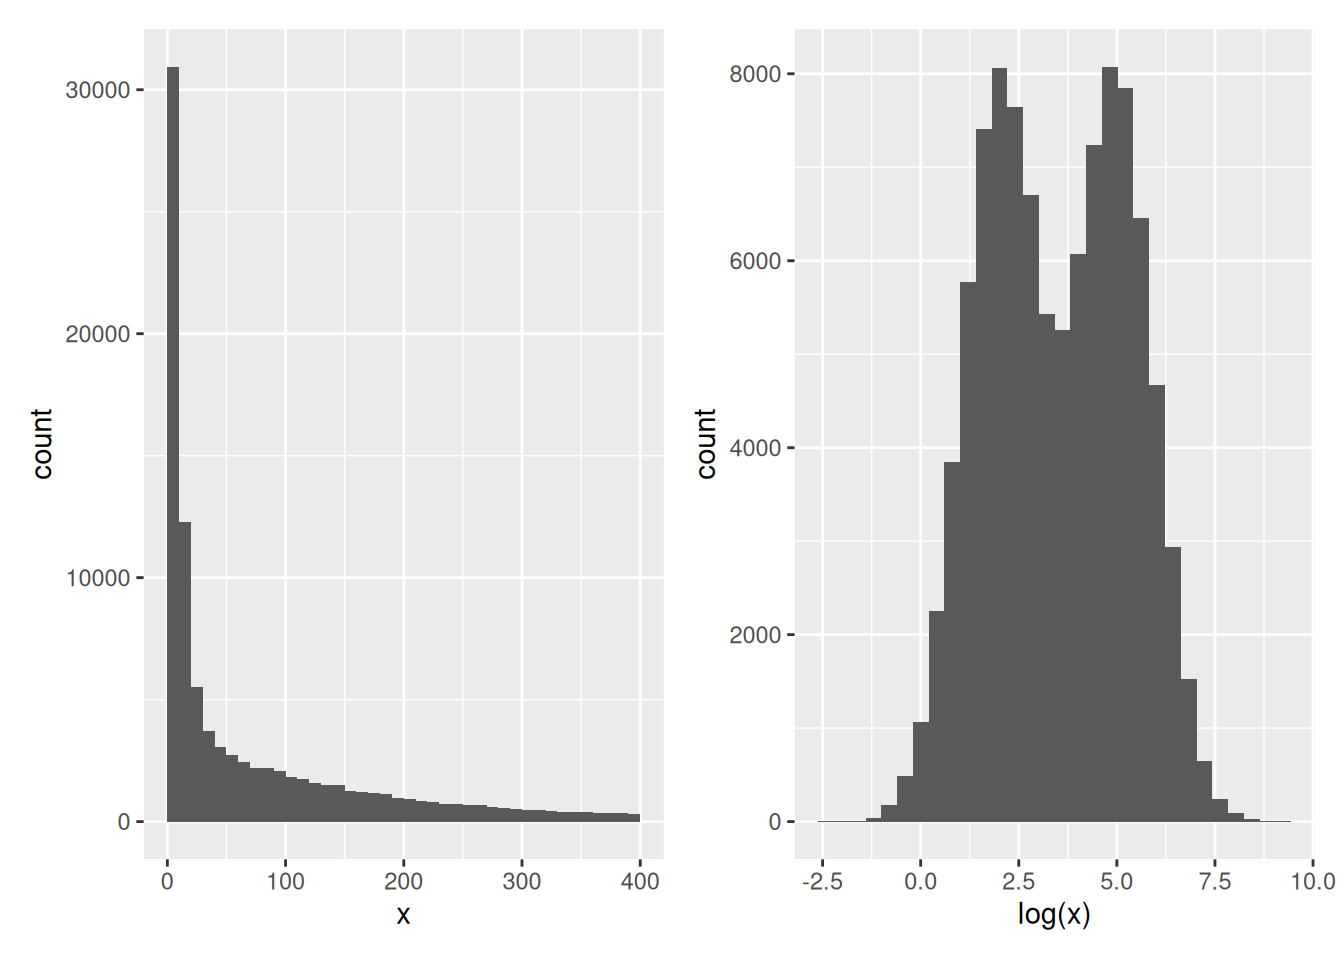
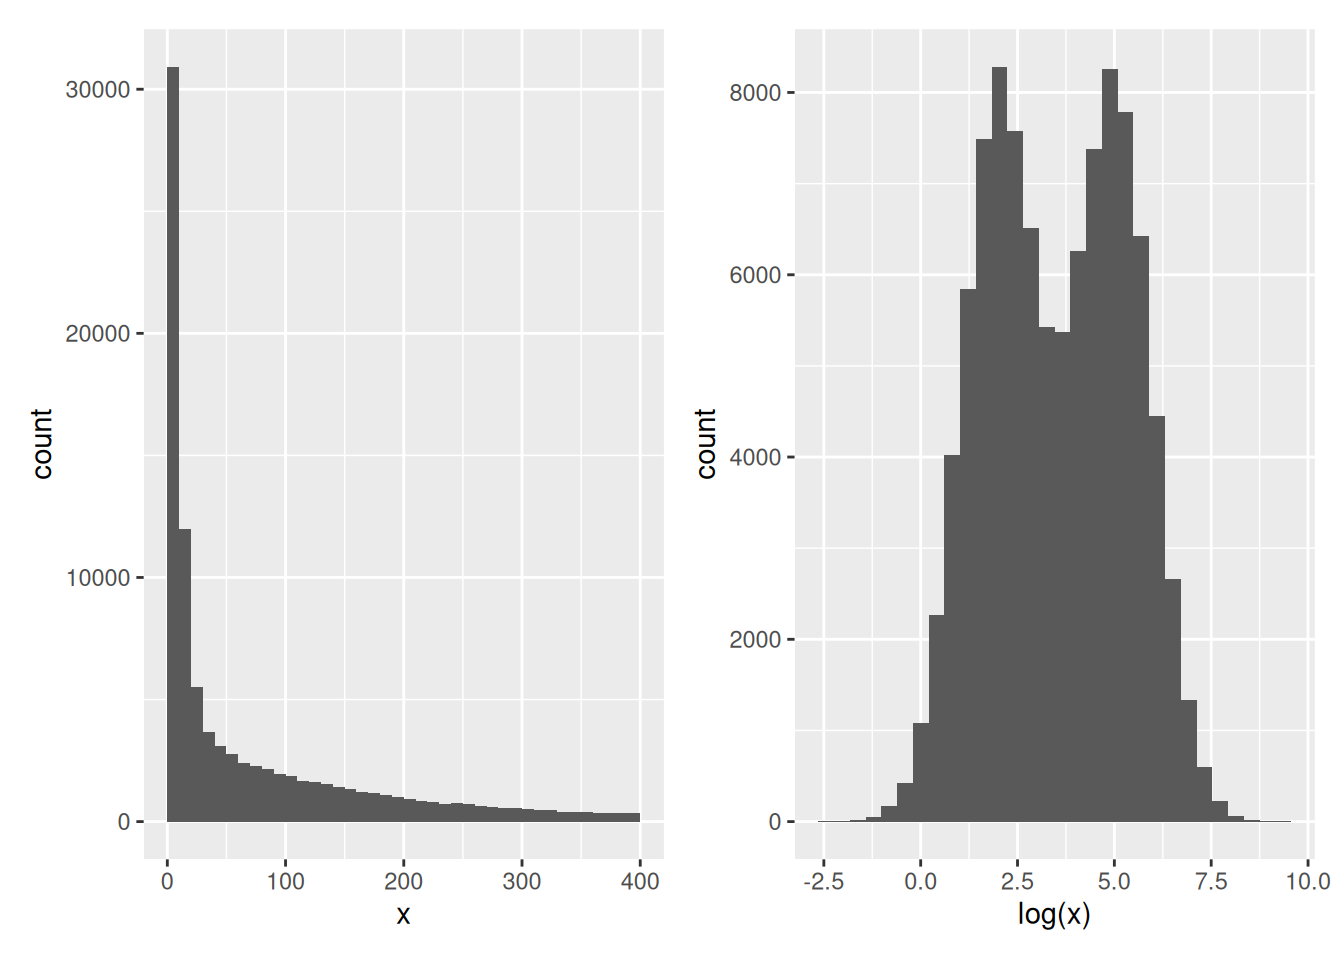
rebuild book

diff --git a/docs/sec-testing.html b/docs/sec-testing.html
@@ -13,7 +13,7 @@
 
 <meta name="author" content="Laurent Gatto" />
 
-<meta name="date" content="2023-10-16" />
+<meta name="date" content="2023-10-23" />
 
 <script type="text/x-mathjax-config">
 MathJax.Hub.Config({
@@ -775,16 +775,16 @@ section 6.5, provides additional details about the t-test.</p>
 through parameters of the <code>t.test</code> function. What we did above is
 called a two-sided two-sample unpaired test with unequal
 variance. <strong>Two-sided</strong> refers to the fact that we were open to reject
-the null hypothesis if the weight of the treated plants was either
-larger or smaller than that of the untreated ones.</p>
+the null hypothesis if the expression in the first group was either
+larger or smaller than that in the second one.</p>
 <p><strong>Two-sample</strong> indicates that we compared the means of two groups to
 each other; another option is to compare the mean of one group against
 a given, fixed number.</p>
 <p><strong>Unpaired</strong> means that there was no direct 1:1 mapping between the
 measurements in the two groups. If, on the other hand, the data had
-been measured on the same plants before and after treatment, then a
+been measured on the same patients before and after treatment, then a
 paired test would be more appropriate, as it looks at the change of
-weight within each plant, rather than their absolute weights.</p>
+expression within each patient, rather than their absolute expression.</p>
 <p><strong>Equal variance</strong> refers to the way the statistic is calculated. That
 expression is most appropriate if the variances within each group are
 about the same. If they are very different, an alternative form,
@@ -1145,7 +1145,7 @@ conclusion now?</li>
 <a href="sec-dimred.html"><button class="btn btn-default">Next</button></a>
 </p>
 <p class="build-date">Page built: 
-2023-10-16
+2023-10-23
  using 
 R version 4.3.1 Patched (2023-07-10 r84676)
 </p>

diff --git a/docs/sec-vis.html b/docs/sec-vis.html
@@ -13,7 +13,7 @@
 
 <meta name="author" content="Laurent Gatto" />
 
-<meta name="date" content="2023-10-16" />
+<meta name="date" content="2023-10-23" />
 
 <script type="text/x-mathjax-config">
 MathJax.Hub.Config({
@@ -949,7 +949,7 @@ of the data.</p>
 <span id="cb38-9"><a href="sec-vis.html#cb38-9" tabindex="-1"></a>p2 <span class="ot">&lt;-</span>  <span class="fu">ggplot</span>(sim, <span class="fu">aes</span>(<span class="fu">log</span>(x))) <span class="sc">+</span></span>
 <span id="cb38-10"><a href="sec-vis.html#cb38-10" tabindex="-1"></a>    <span class="fu">geom_histogram</span>(<span class="at">bins =</span> <span class="dv">30</span>)</span>
 <span id="cb38-11"><a href="sec-vis.html#cb38-11" tabindex="-1"></a>p1 <span class="sc">+</span> p2</span></code></pre></div>
-<pre><code>## Warning: Removed 7968 rows containing non-finite values (`stat_bin()`).</code></pre>
+<pre><code>## Warning: Removed 8163 rows containing non-finite values (`stat_bin()`).</code></pre>
 <div class="figure">
 <span style="display:block;" id="fig:sim"></span>
 <p class="caption marginnote shownote">
@@ -1205,7 +1205,7 @@ Analysis. Springer-Verlag New York.<a href="sec-vis.html#fnref3" class="footnote
 <a href="sec-obj.html"><button class="btn btn-default">Next</button></a>
 </p>
 <p class="build-date">Page built: 
-2023-10-16
+2023-10-23
  using 
 R version 4.3.1 Patched (2023-07-10 r84676)
 </p>

diff --git a/docs/sec-obj.html b/docs/sec-obj.html
@@ -13,7 +13,7 @@
 
 <meta name="author" content="Laurent Gatto" />
 
-<meta name="date" content="2023-10-16" />
+<meta name="date" content="2023-10-23" />
 
 <script type="text/x-mathjax-config">
 MathJax.Hub.Config({
@@ -1042,7 +1042,7 @@ missing.<a href="sec-obj.html#fnref6" class="footnote-back">↩</a></p></li>
 <a href="sec-biostrings.html"><button class="btn btn-default">Next</button></a>
 </p>
 <p class="build-date">Page built: 
-2023-10-16
+2023-10-23
  using 
 R version 4.3.1 Patched (2023-07-10 r84676)
 </p>

diff --git a/docs/index.html b/docs/index.html
@@ -13,7 +13,7 @@
 
 <meta name="author" content="Laurent Gatto" />
 
-<meta name="date" content="2023-10-16" />
+<meta name="date" content="2023-10-23" />
 
 <script type="text/x-mathjax-config">
 MathJax.Hub.Config({
@@ -366,7 +366,7 @@ style</a> <span class="citation">(<a href="#ref-R-msmbstyle"><strong>R-msmbstyle
 <a href="sec-refresher.html"><button class="btn btn-default">Next</button></a>
 </p>
 <p class="build-date">Page built: 
-2023-10-16
+2023-10-23
  using 
 R version 4.3.1 Patched (2023-07-10 r84676)
 </p>

diff --git a/docs/sec-sl.html b/docs/sec-sl.html
@@ -13,7 +13,7 @@
 
 <meta name="author" content="Laurent Gatto" />
 
-<meta name="date" content="2023-10-16" />
+<meta name="date" content="2023-10-23" />
 
 <script type="text/x-mathjax-config">
 MathJax.Hub.Config({
@@ -1061,7 +1061,7 @@ patients, for example.<a href="sec-sl.html#fnref14" class="footnote-back">↩
 <a href="sec-biovis.html"><button class="btn btn-default">Next</button></a>
 </p>
 <p class="build-date">Page built: 
-2023-10-16
+2023-10-23
  using 
 R version 4.3.1 Patched (2023-07-10 r84676)
 </p>

diff --git a/docs/sec-norm.html b/docs/sec-norm.html
@@ -13,7 +13,7 @@
 
 <meta name="author" content="Laurent Gatto" />
 
-<meta name="date" content="2023-10-16" />
+<meta name="date" content="2023-10-23" />
 
 <script type="text/x-mathjax-config">
 MathJax.Hub.Config({
@@ -769,7 +769,7 @@ variability of such experimental data.<a href="sec-norm.html#fnref8" class="foot
 <a href="sec-mlintro.html"><button class="btn btn-default">Next</button></a>
 </p>
 <p class="build-date">Page built: 
-2023-10-16
+2023-10-23
  using 
 R version 4.3.1 Patched (2023-07-10 r84676)
 </p>

diff --git a/docs/sec-ul.html b/docs/sec-ul.html
@@ -13,7 +13,7 @@
 
 <meta name="author" content="Laurent Gatto" />
 
-<meta name="date" content="2023-10-16" />
+<meta name="date" content="2023-10-23" />
 
 <script type="text/x-mathjax-config">
 MathJax.Hub.Config({
@@ -1007,7 +1007,7 @@ features or samples.<a href="sec-ul.html#fnref12" class="footnote-back">↩</
 <a href="sec-sl.html"><button class="btn btn-default">Next</button></a>
 </p>
 <p class="build-date">Page built: 
-2023-10-16
+2023-10-23
  using 
 R version 4.3.1 Patched (2023-07-10 r84676)
 </p>

diff --git a/docs/sec-biovis.html b/docs/sec-biovis.html
@@ -13,7 +13,7 @@
 
 <meta name="author" content="Laurent Gatto" />
 
-<meta name="date" content="2023-10-16" />
+<meta name="date" content="2023-10-23" />
 
 <script type="text/x-mathjax-config">
 MathJax.Hub.Config({
@@ -497,7 +497,7 @@ number of intersections (default is 40) become useful.</p>
 <a href="sec-ccl.html"><button class="btn btn-default">Next</button></a>
 </p>
 <p class="build-date">Page built: 
-2023-10-16
+2023-10-23
  using 
 R version 4.3.1 Patched (2023-07-10 r84676)
 </p>

diff --git a/docs/sec-ccl.html b/docs/sec-ccl.html
@@ -13,7 +13,7 @@
 
 <meta name="author" content="Laurent Gatto" />
 
-<meta name="date" content="2023-10-16" />
+<meta name="date" content="2023-10-23" />
 
 <script type="text/x-mathjax-config">
 MathJax.Hub.Config({
@@ -513,7 +513,7 @@ effect of that outlier of the differential analysis.</li>
 <a href="sec-si.html"><button class="btn btn-default">Next</button></a>
 </p>
 <p class="build-date">Page built: 
-2023-10-16
+2023-10-23
  using 
 R version 4.3.1 Patched (2023-07-10 r84676)
 </p>

diff --git a/docs/sec-mlintro.html b/docs/sec-mlintro.html
@@ -13,7 +13,7 @@
 
 <meta name="author" content="Laurent Gatto" />
 
-<meta name="date" content="2023-10-16" />
+<meta name="date" content="2023-10-23" />
 
 <script type="text/x-mathjax-config">
 MathJax.Hub.Config({
@@ -760,7 +760,7 @@ but these are beyond the scope of this course.</p>
 <a href="sec-testing.html"><button class="btn btn-default">Next</button></a>
 </p>
 <p class="build-date">Page built: 
-2023-10-16
+2023-10-23
  using 
 R version 4.3.1 Patched (2023-07-10 r84676)
 </p>

diff --git a/docs/sec-refresher.html b/docs/sec-refresher.html
@@ -13,7 +13,7 @@
 
 <meta name="author" content="Laurent Gatto" />
 
-<meta name="date" content="2023-10-16" />
+<meta name="date" content="2023-10-23" />
 
 <script type="text/x-mathjax-config">
 MathJax.Hub.Config({
@@ -395,7 +395,7 @@ state it explicitly in your response.</p>
 <a href="sec-vis.html"><button class="btn btn-default">Next</button></a>
 </p>
 <p class="build-date">Page built: 
-2023-10-16
+2023-10-23
  using 
 R version 4.3.1 Patched (2023-07-10 r84676)
 </p>

diff --git a/docs/sec-si.html b/docs/sec-si.html
@@ -13,7 +13,7 @@
 
 <meta name="author" content="Laurent Gatto" />
 
-<meta name="date" content="2023-10-16" />
+<meta name="date" content="2023-10-23" />
 
 <script type="text/x-mathjax-config">
 MathJax.Hub.Config({
@@ -322,7 +322,7 @@ the following code:</p>
 <a href="sec-ccl.html"><button class="btn btn-default">Previous</button></a>
 </p>
 <p class="build-date">Page built: 
-2023-10-16
+2023-10-23
  using 
 R version 4.3.1 Patched (2023-07-10 r84676)
 </p>
